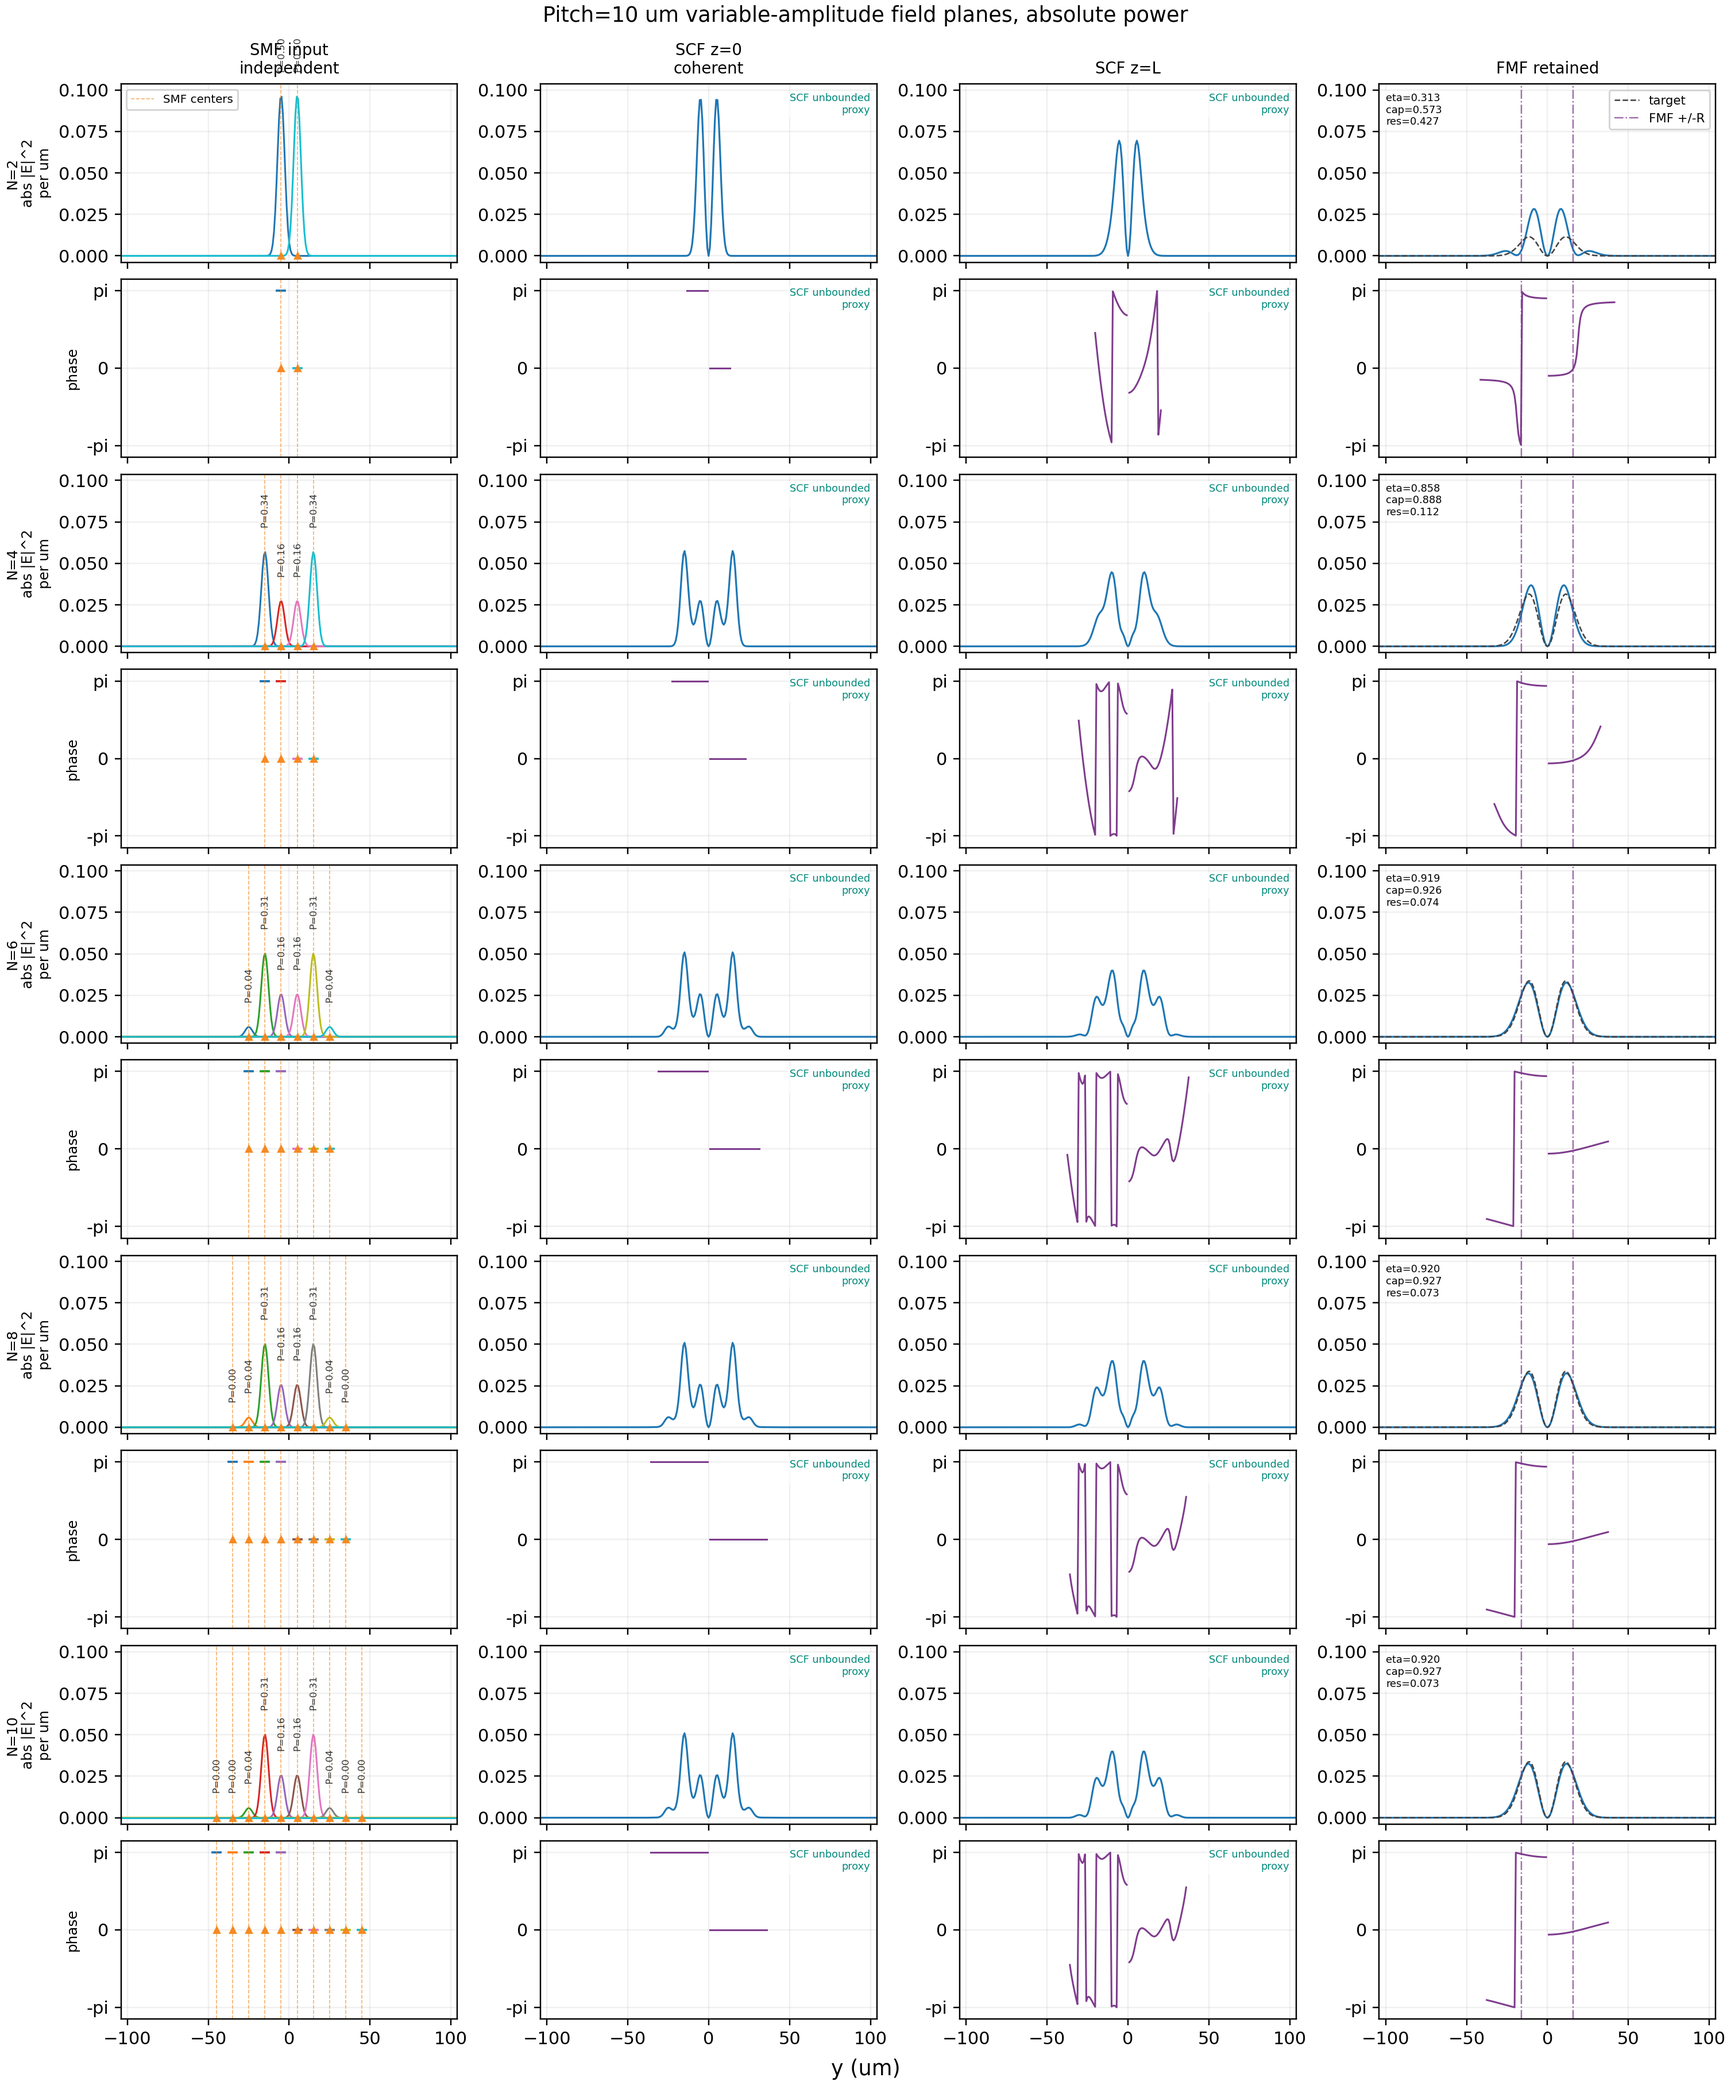
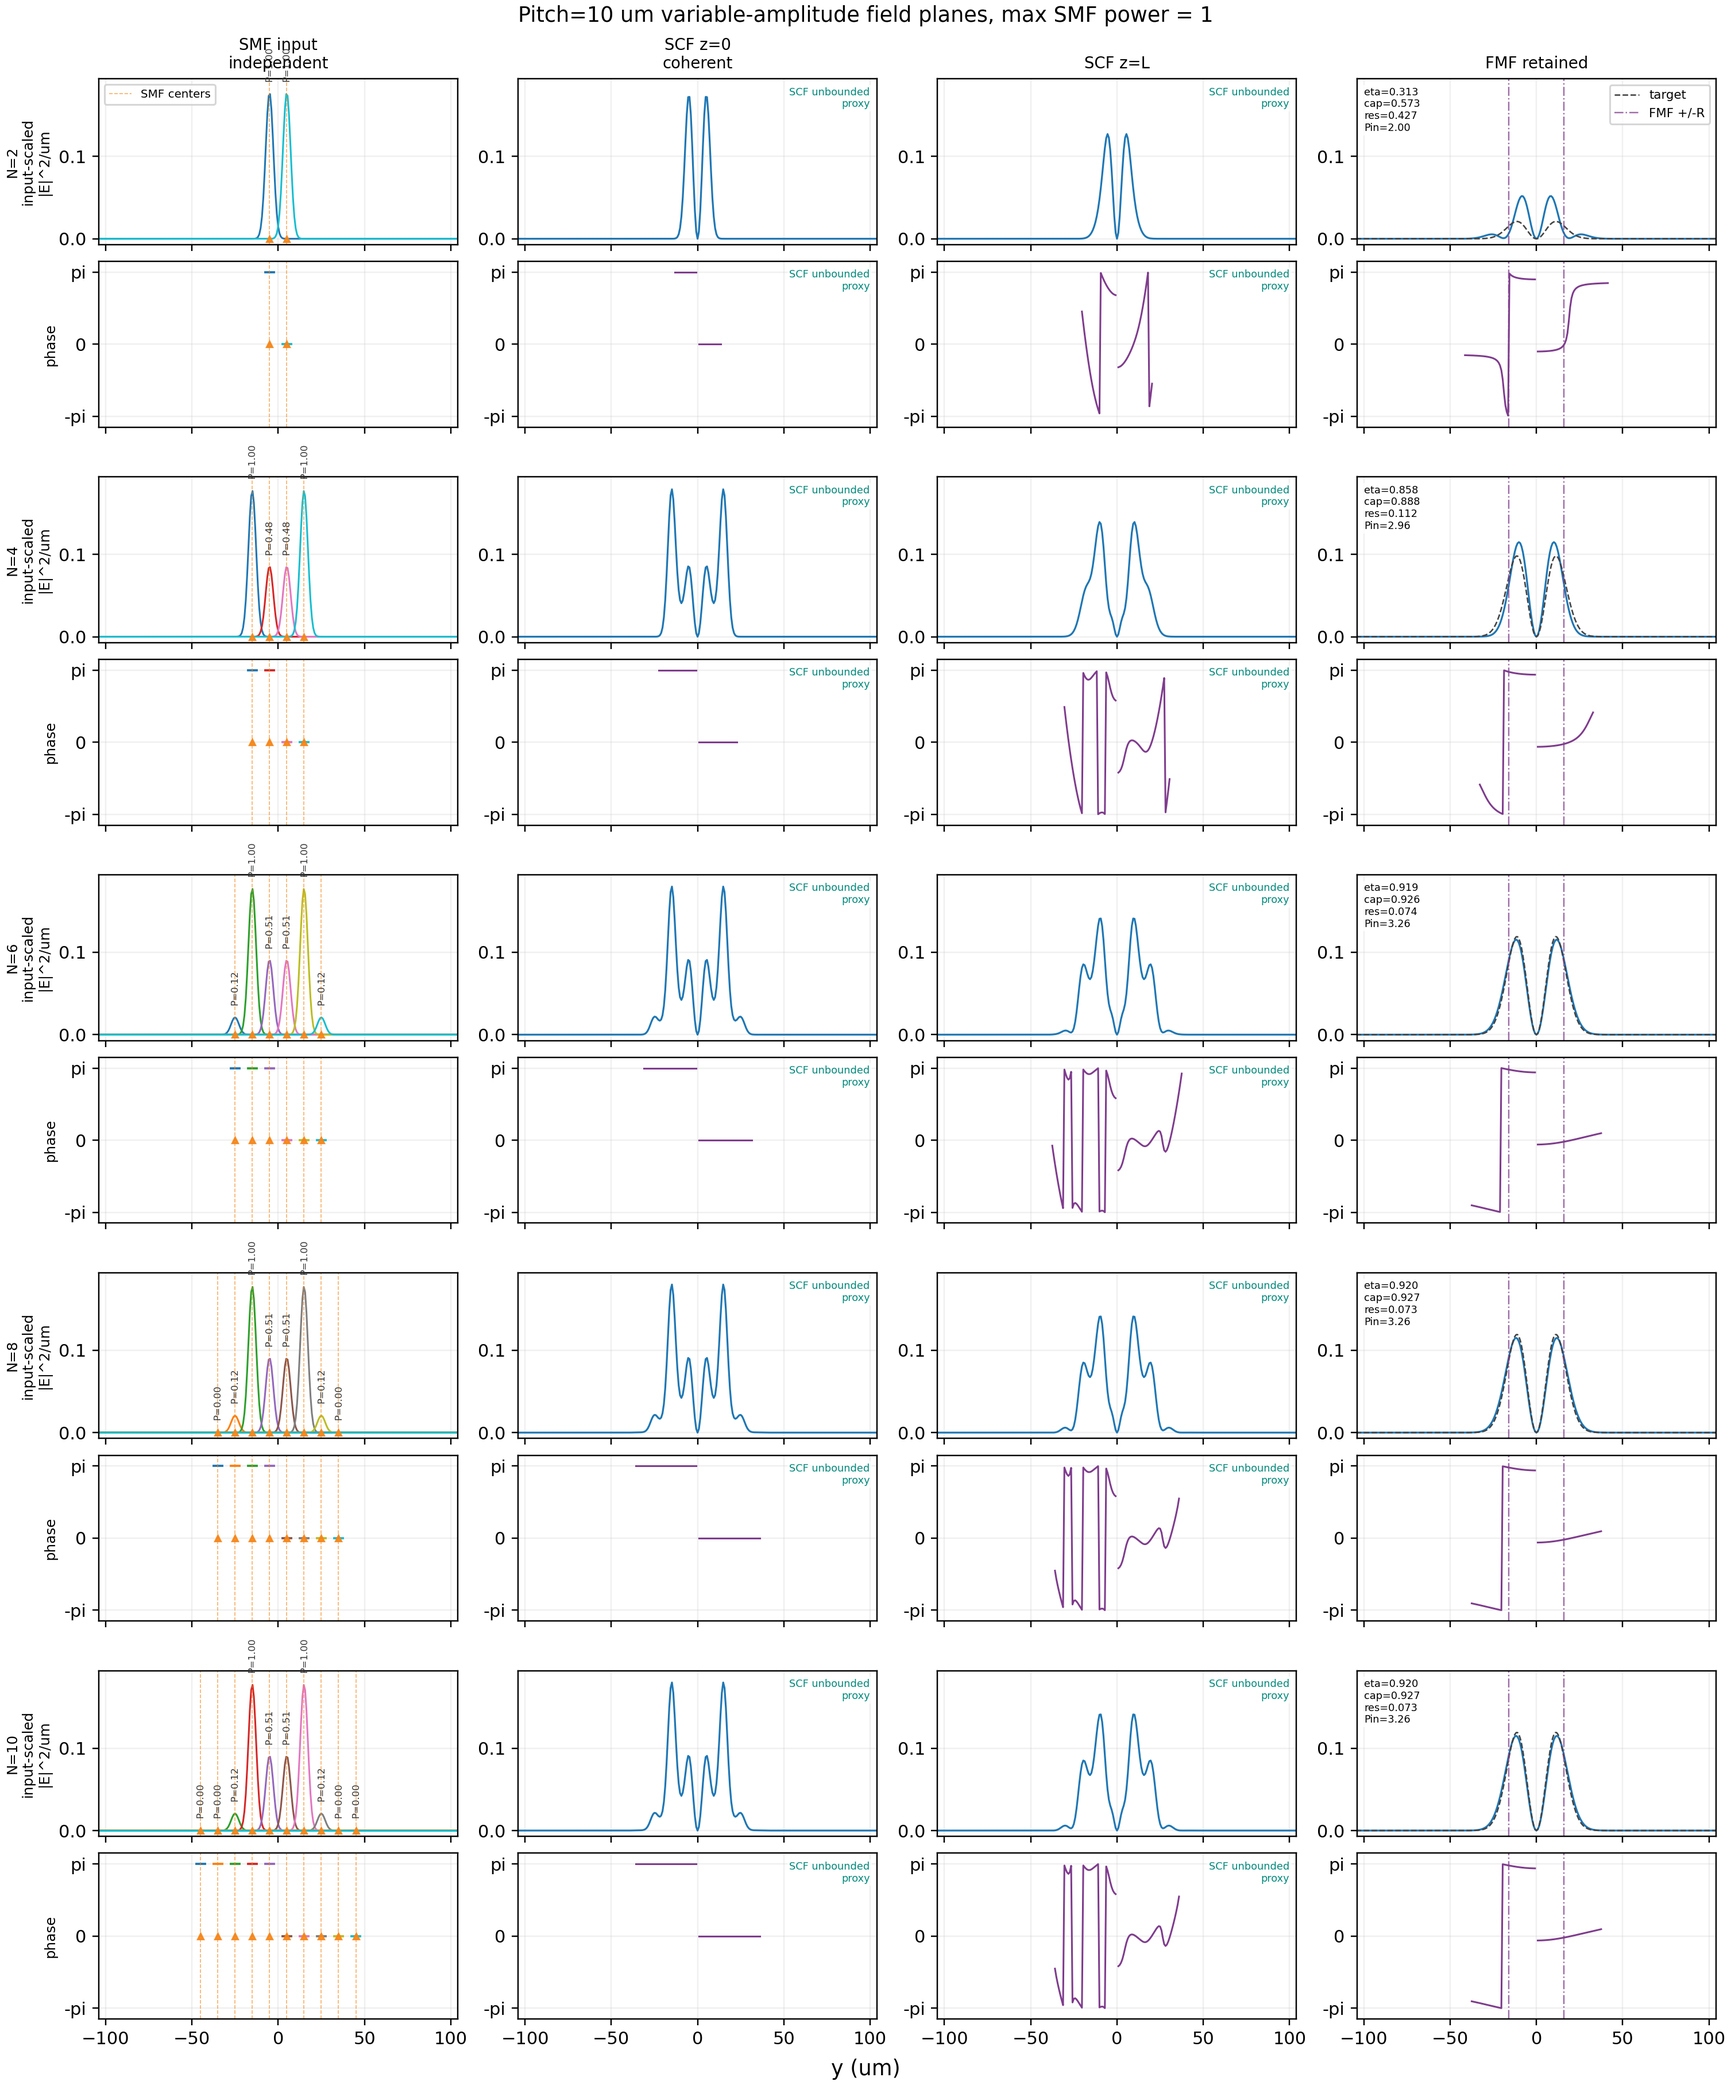
Refresh binary-phase field-plane display power scale

diff --git a/binary_phase_2d_mmi/2026-06-01/final_review/README.md b/binary_phase_2d_mmi/2026-06-01/final_review/README.md
@@ -3,7 +3,7 @@
 Public image assets for embedding in the Notion page:
 https://www.notion.so/3722f066c71681dca075f264775cc6e9
 
-The normalized field-plane figures are for shape comparison. The absolute-power figures plot power density with total coherent input power normalized to 1 in the scalar proxy.
+The relative field-plane figures are for shape comparison. SMF input panels normalize channel power to the strongest active SMF. The absolute-power figures use the same display convention: max SMF input power = 1, so equal-power N=10 has total independent input power 10.
 
 ## field_planes_pitch10_variable_by_count.png
 
@@ -56,3 +56,4 @@ The normalized field-plane figures are for shape comparison. The absolute-power 
 ## robustness_pitch10_variable.png
 
 ![robustness_pitch10_variable.png](https://raw.githubusercontent.com/bitzyc/scf-fmf-notion-assets/main/binary_phase_2d_mmi/2026-06-01/final_review/robustness_pitch10_variable.png)
+
